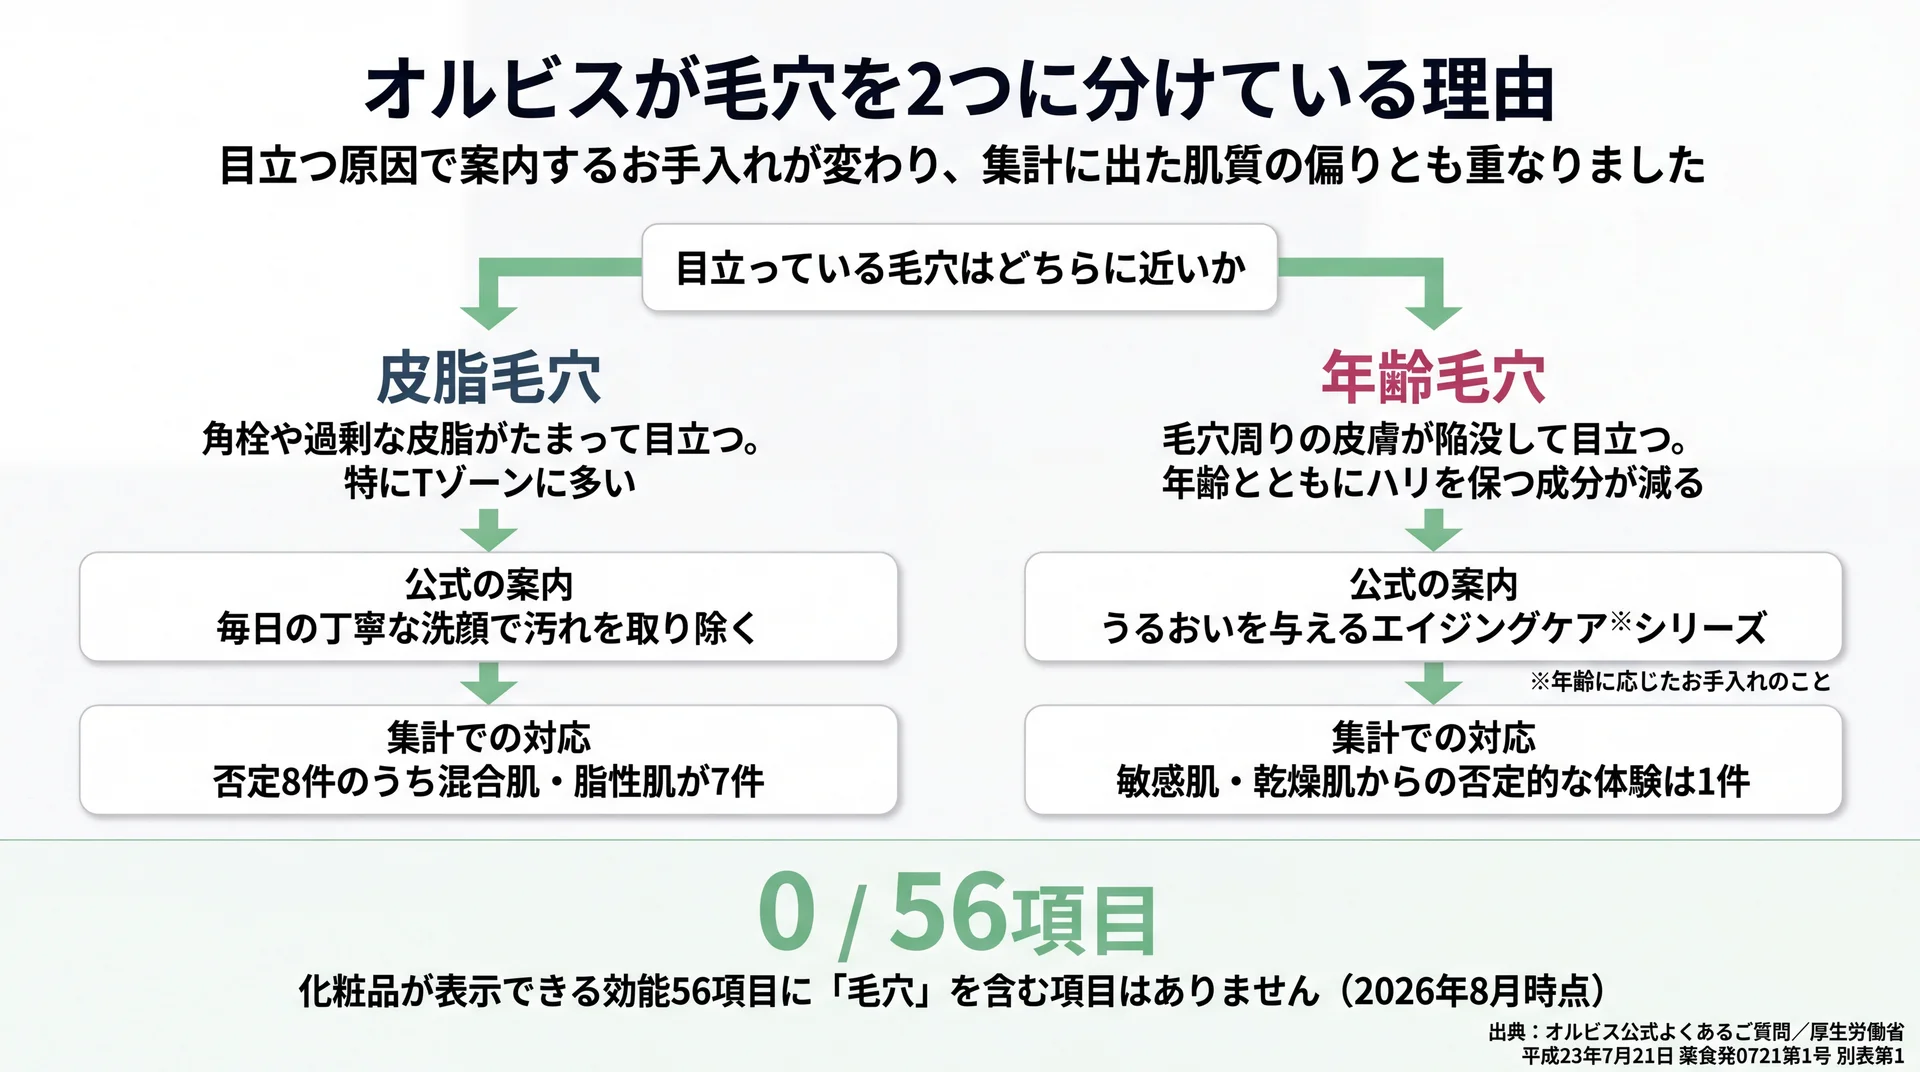
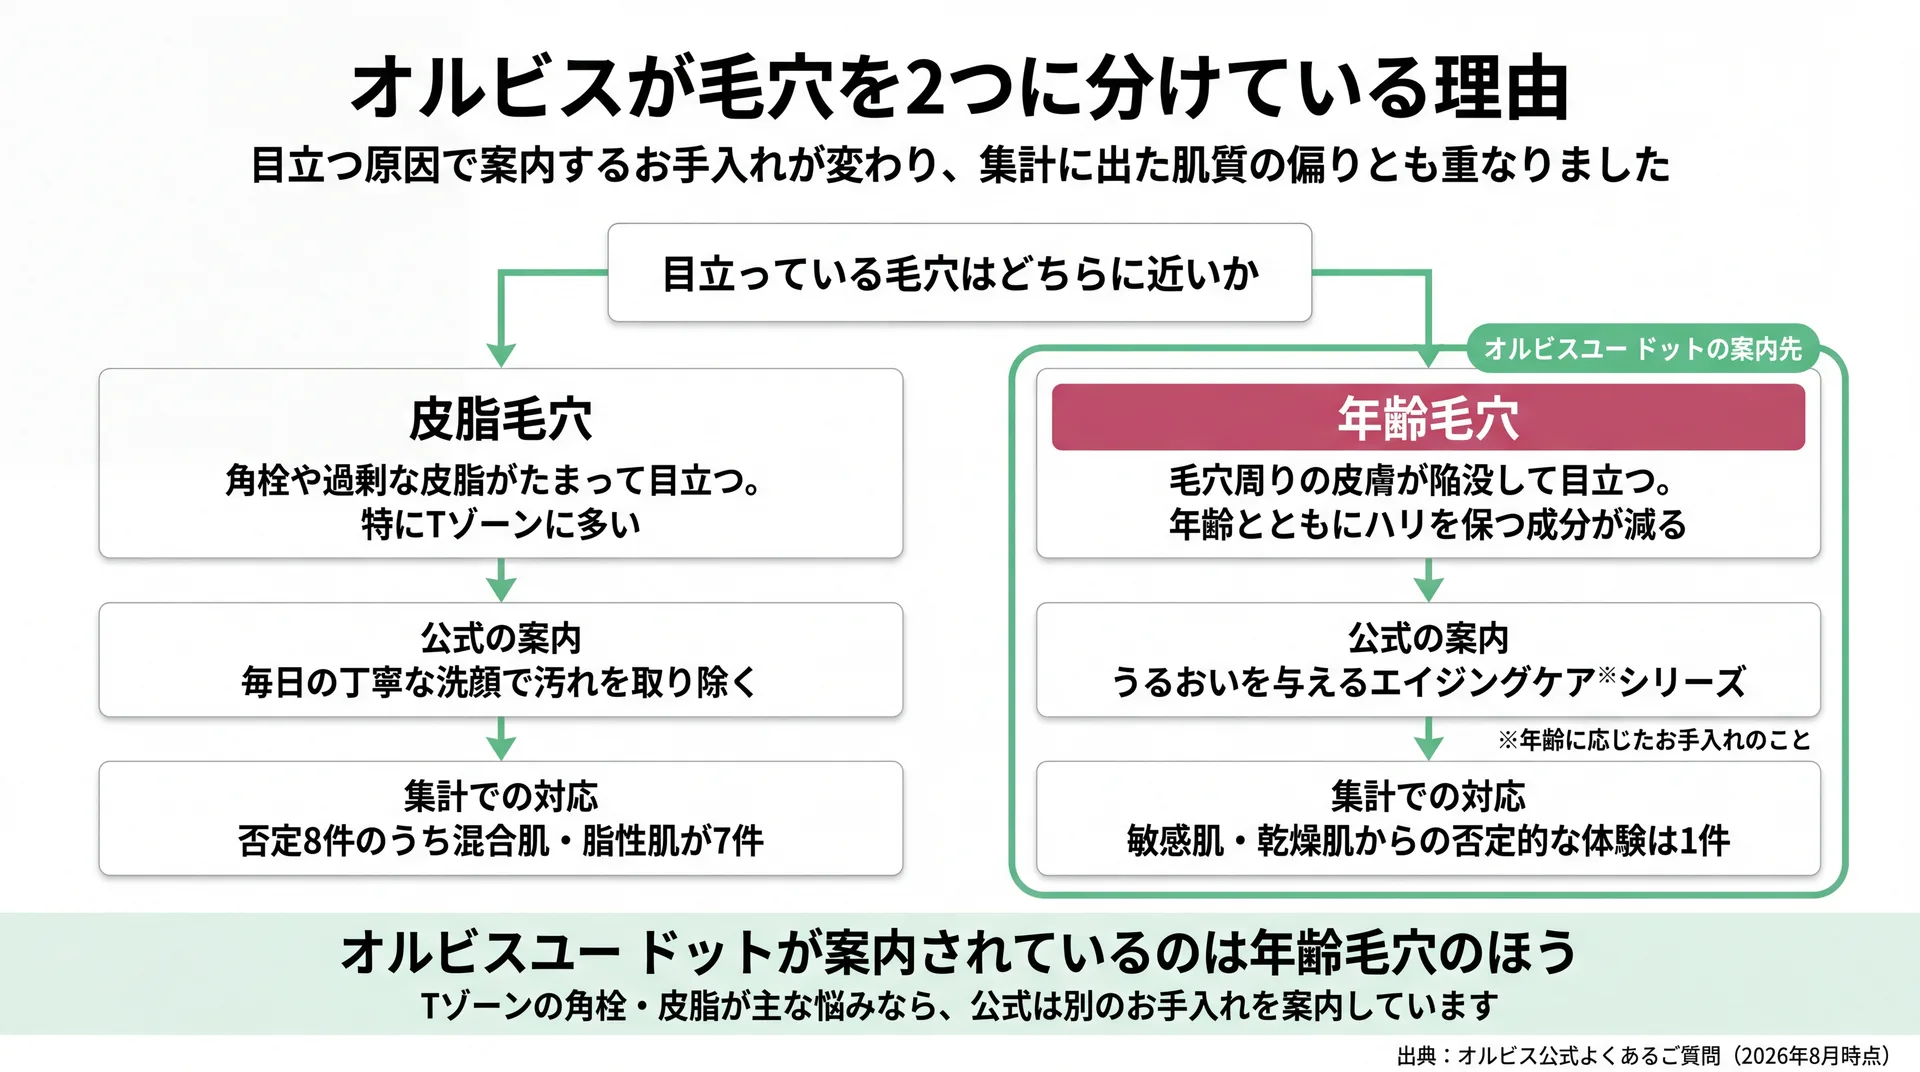
publish: orbis-u-dot-pore-visible

Changed region(s): [[0.0312, 0.2155, 1.0, 1.0], [0.0938, 0.0308, 0.9062, 0.1847]]

diff --git a/2026/08/orbis-u-dot-pore-visible.html b/2026/08/orbis-u-dot-pore-visible.html
@@ -261,7 +261,7 @@
 </tbody></table></div>
 <p style="margin:14px 0; line-height:1.7;">体験件数に対する否定の割合が最も高いのはクリームモイスチャライザー（5件中3件）で、肌質では<span style="background:linear-gradient(transparent 60%,#FFFF00 60%)"><strong>否定8件のうち混合肌・脂性肌が7件</strong></span>を占めます。一方で敏感肌6件・普通肌1件からは否定的な体験が出ていません。同じ商品でも、肌質によって受け取り方がこれだけ分かれています。</p>
 <h3 style="font-size:20px; font-weight:600; margin:24px 0 12px; line-height:1.3;">密着感の強い設計と、皮脂が出やすい条件での使い方</h3>
-<p style="margin:14px 0; line-height:1.7;"><img src="https://shun-toda.github.io/html-publish/2026/08/orbis-u-dot-pore-visible/%E5%85%AC%E5%BC%8F_%E3%83%86%E3%82%AF%E3%82%B9%E3%83%81%E3%83%A3%E3%83%BC_%E3%82%AF%E3%83%AA%E3%83%BC%E3%83%A0%E3%83%A2%E3%82%A4%E3%82%B9%E3%83%81%E3%83%A3%E3%83%A9%E3%82%A4%E3%82%B6%E3%83%BC.webp" alt="クリームモイスチャライザーの中身を取り出したテクスチャー。白く濃密なクリーム状で、なめらかな山型に盛り上がっている" loading="lazy" style="max-width:100%; height:auto; display:block; margin:16px auto; border-radius:6px;" /><br><em>クリームモイスチャライザーのテクスチャー。体温でまろやかに伸びる濃密なクリームです（画像はオルビス提供・未加工）</em></p>
+<p style="margin:14px 0; line-height:1.7;"><img src="https://shun-toda.github.io/html-publish/2026/08/orbis-u-dot-pore-visible/%E5%85%AC%E5%BC%8F_%E3%83%86%E3%82%AF%E3%82%B9%E3%83%81%E3%83%A3%E3%83%BC_%E3%82%AF%E3%83%AA%E3%83%BC%E3%83%A0%E3%83%A2%E3%82%A4%E3%82%B9%E3%83%81%E3%83%A3%E3%83%A9%E3%82%A4%E3%82%B6%E3%83%BC.webp" alt="クリームモイスチャライザーの中身を取り出したテクスチャー。白く濃密なクリーム状で、なめらかな山型に盛り上がっている" loading="lazy" style="max-width:100%; height:auto; display:block; margin:16px auto; border-radius:6px;" /><br><em>クリームモイスチャライザーのテクスチャー。体温でまろやかに伸びる濃密なクリームです</em></p>
 <p style="margin:14px 0; line-height:1.7;">否定側の記述に共通していたのは、塗った後の膜のような感触とべたつきでした。これはクリームモイスチャライザーの設計と対応しています。オルビスはこのクリームに、<a href="https://www.orbis.co.jp/small/11010753/" style="color:#0969da; text-decoration:none; border-bottom:1px solid #eaeef2;">体温に触れるとしなやかに密着する成分と、うるおいを肌に閉じ込める成分</a>を意図して採用しています。</p>
 <p style="margin:14px 0; line-height:1.7;">密着させる設計である以上、皮脂が出やすい季節と肌質では量の調整が要ります。<strong>混合肌・脂性肌の方は、まず規定量より少なめから始め、Tゾーンを避けて頬から伸ばす</strong>使い方をおすすめします。なお、べたつきや重さそのものへの評価は毛穴とは別の論点であり、<a href="/column/udot-review/" style="color:#0969da; text-decoration:none; border-bottom:1px solid #eaeef2;">3品それぞれの評価の序列</a>は親ハブの記事で整理しています。</p>
 <!-- wp:group {"style":{"border":{"radius":"16px","color":"#088010","style":"solid","width":"1px"},"spacing":{"padding":{"top":"24px","right":"20px","bottom":"24px","left":"20px"}}},"layout":{"type":"constrained"}} -->
@@ -279,7 +279,7 @@
 <!-- /wp:buttons -->
 </div>
 <!-- /wp:group --><h2 style="font-size:24px; font-weight:600; margin:32px 0 16px; padding-bottom:8px; border-bottom:1px solid #eaeef2; line-height:1.3;">洗顔料は毛穴の汚れに向いているのか</h2>
-<p style="margin:14px 0; line-height:1.7;"><img src="https://shun-toda.github.io/html-publish/2026/08/orbis-u-dot-pore-visible/%E5%85%AC%E5%BC%8F_%E3%83%86%E3%82%AF%E3%82%B9%E3%83%81%E3%83%A3%E3%83%BC_%E3%83%95%E3%82%A9%E3%83%BC%E3%83%9F%E3%83%B3%E3%82%B0%E3%82%A6%E3%82%A9%E3%83%83%E3%82%B7%E3%83%A5.webp" alt="フォーミングウォッシュを泡立てたテクスチャー。きめの細かい白い泡が、角の立った山型に盛り上がっている" loading="lazy" style="max-width:100%; height:auto; display:block; margin:16px auto; border-radius:6px;" /><br><em>フォーミングウォッシュの泡。うるおいを残しながら蓄積した古い角層※を絡めとる濃密泡です（画像はオルビス提供・未加工／※剥がれずに肌に蓄積した古い角層）</em></p>
+<p style="margin:14px 0; line-height:1.7;"><img src="https://shun-toda.github.io/html-publish/2026/08/orbis-u-dot-pore-visible/%E5%85%AC%E5%BC%8F_%E3%83%86%E3%82%AF%E3%82%B9%E3%83%81%E3%83%A3%E3%83%BC_%E3%83%95%E3%82%A9%E3%83%BC%E3%83%9F%E3%83%B3%E3%82%B0%E3%82%A6%E3%82%A9%E3%83%83%E3%82%B7%E3%83%A5.webp" alt="フォーミングウォッシュを泡立てたテクスチャー。きめの細かい白い泡が、角の立った山型に盛り上がっている" loading="lazy" style="max-width:100%; height:auto; display:block; margin:16px auto; border-radius:6px;" /><br><em>フォーミングウォッシュの泡。うるおいを残しながら蓄積した古い角層※を絡めとる濃密泡です（※剥がれずに肌に蓄積した古い角層）</em></p>
 <p style="margin:14px 0; line-height:1.7;">フォーミングウォッシュで毛穴に触れた体験は10件で、うち否定的な内容は3件でした。否定3件はいずれも「汚れが落ちた手応えがない」「黒ずみのある毛穴は変わらなかった」という内容で、洗浄が足りないという方向です。オルビスはこの洗顔料の毛穴に関わる働きを、洗浄という物理的効果の範囲で説明しています。</p>
 <h3 style="font-size:20px; font-weight:600; margin:24px 0 12px; line-height:1.3;">洗顔料に触れた体験10件のうち否定は3件</h3>
 <p style="margin:14px 0; line-height:1.7;">毛穴に触れた洗顔料の投稿10件のうち7件は、洗い上がりの感触について書かれた内容でした。残る3件は、角栓や黒ずみが気になっていた方からの「変わらなかった」という記述です。<strong>つまり洗顔料に対する評価は、その方が何を毛穴の悩みだと捉えていたかで分かれています。</strong></p>
@@ -288,7 +288,7 @@
 <p style="margin:14px 0; line-height:1.7;">オルビスがフォーミングウォッシュの商品ページで表示しているのは、<a href="https://www.orbis.co.jp/small/11010751/" style="color:#0969da; text-decoration:none; border-bottom:1px solid #eaeef2;">蓄積した角層※1を絡めとる高密着マイルドピーリング※2洗顔料</a>という説明です（※1 剥がれずに肌に蓄積した古い角層／※2 洗浄による物理的効果）。肌荒れ防止有効成分としてグリチルリチン酸ジカリウムを配合した医薬部外品にあたります。</p>
 <p style="margin:14px 0; line-height:1.7;">ここで<span style="color:red"><strong>「洗浄による物理的効果」と明示されている点が重要</strong></span>です。洗顔料が関与できるのは、表面に残っている汚れや古い角層を落とすところまでで、毛穴そのものの構造に働きかけるものではありません。角栓が主な原因だと感じている方が洗顔料だけで対処しようとすると、期待とのずれが生まれます。</p>
 <h2 style="font-size:24px; font-weight:600; margin:32px 0 16px; padding-bottom:8px; border-bottom:1px solid #eaeef2; line-height:1.3;">オルビスが毛穴を2つに分けている理由</h2>
-<p style="margin:14px 0; line-height:1.7;"><img src="https://shun-toda.github.io/html-publish/2026/08/orbis-u-dot-pore-visible/h2_04_%E7%9A%AE%E8%84%82%E6%AF%9B%E7%A9%B4_%E5%B9%B4%E9%BD%A2%E6%AF%9B%E7%A9%B4.webp" alt="皮脂毛穴と年齢毛穴で案内するお手入れが分かれる流れと、化粧品の効能56項目に毛穴の項目がないことを示した図" loading="lazy" style="max-width:100%; height:auto; display:block; margin:16px auto; border-radius:6px;" /><br><em>原因の区分ごとに案内が変わり、集計に出た肌質の偏りとも重なりました（オルビスの公式よくあるご質問、および厚生労働省 平成23年7月21日 薬食発0721第1号 別表第1に基づく）</em></p>
+<p style="margin:14px 0; line-height:1.7;"><img src="https://shun-toda.github.io/html-publish/2026/08/orbis-u-dot-pore-visible/h2_04_%E7%9A%AE%E8%84%82%E6%AF%9B%E7%A9%B4_%E5%B9%B4%E9%BD%A2%E6%AF%9B%E7%A9%B4.webp" alt="皮脂毛穴と年齢毛穴で公式が案内するお手入れが分かれ、オルビスユー ドットは年齢毛穴側に案内されていることを示した分岐図" loading="lazy" style="max-width:100%; height:auto; display:block; margin:16px auto; border-radius:6px;" /><br><em>オルビスユー ドットが案内されているのは年齢毛穴のほうで、Tゾーンの角栓・皮脂が悩みの場合は別のお手入れが案内されています（オルビスの公式よくあるご質問に基づく）</em></p>
 <p style="margin:14px 0; line-height:1.7;">オルビスは公式のよくあるご質問で、毛穴が目立つ原因を皮脂毛穴と年齢毛穴の2つに分けて説明しています。そのうえで、うるおいを与えるスキンケアシリーズをおすすめしているのは年齢毛穴のほうです。この区分を知ると、口コミの評価が肌質で分かれた理由も説明がつきます。</p>
 <h3 style="font-size:20px; font-weight:600; margin:24px 0 12px; line-height:1.3;">公式のよくあるご質問における皮脂毛穴と年齢毛穴</h3>
 <p style="margin:14px 0; line-height:1.7;"><a href="https://faq.orbis.co.jp/faq/show/200?category_id=48&site_domain=open" style="color:#0969da; text-decoration:none; border-bottom:1px solid #eaeef2;">毛穴が目立つときのお手入れってどうするの？</a>というページで、オルビスは次のように区分しています（2026年8月時点）。</p>
